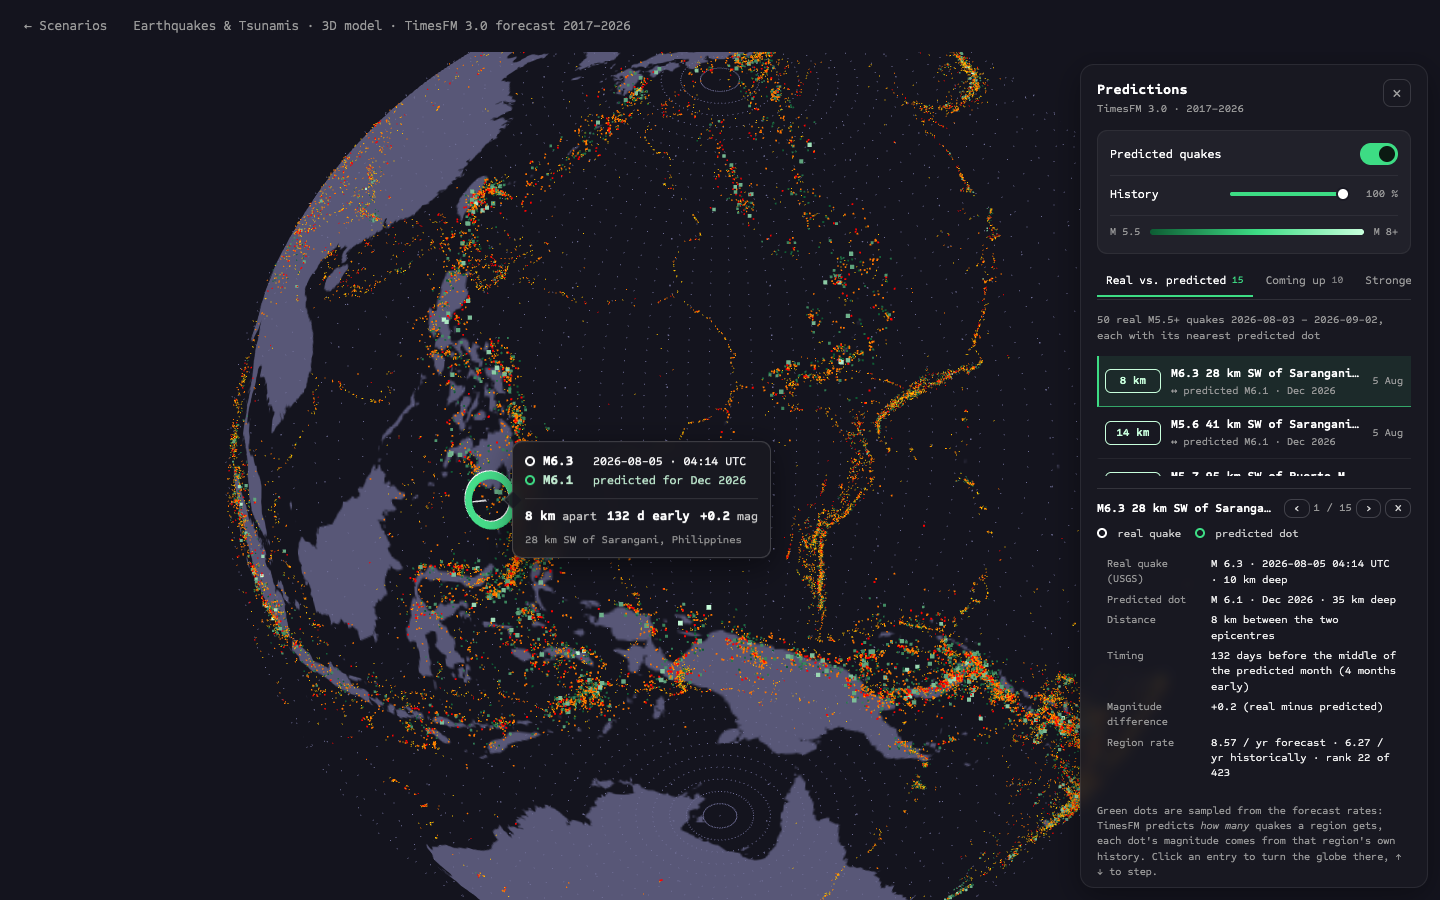
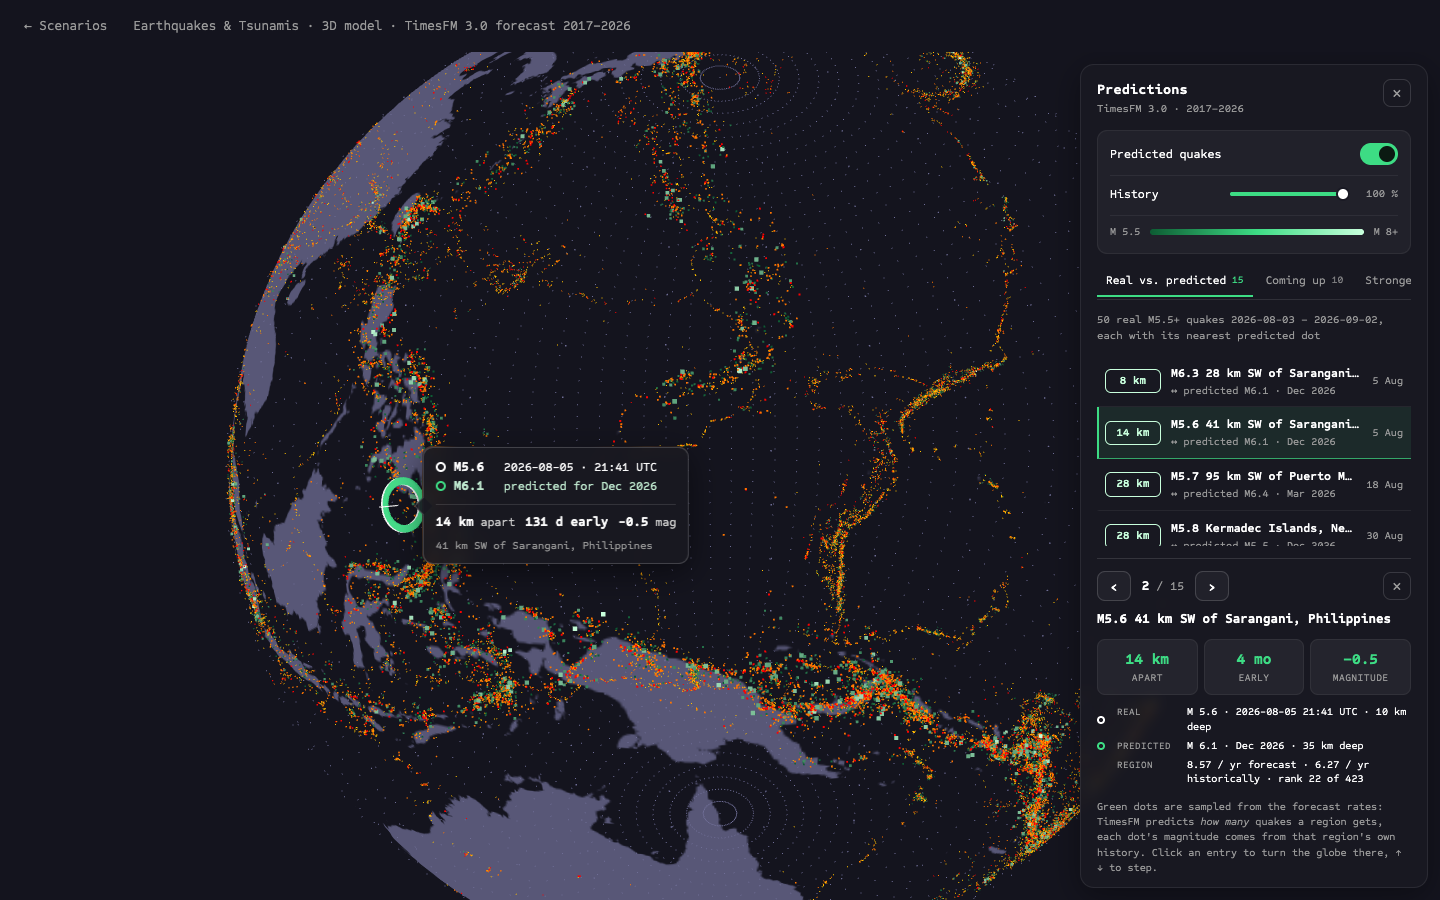
ui: globe detail card with larger stepper, stat tiles and compact fact lines

diff --git a/src/erdbeben/pages/Globe.tsx b/src/erdbeben/pages/Globe.tsx
@@ -713,41 +713,79 @@ export default function Globe() {
 
           {selectedItem && currentSection && (
             <div className="detail" aria-live="polite">
-              <div className="detailHead">
-                <span className="detailTitle">{selectedItem.place}</span>
-                <span className="stepper">
-                  <button type="button" className="ghostBtn" onClick={() => step(-1)} aria-label="Previous">
-                    ‹
-                  </button>
-                  <span>
-                    {selectedIdx + 1} / {currentSection.items.length}
-                  </span>
-                  <button type="button" className="ghostBtn" onClick={() => step(1)} aria-label="Next">
-                    ›
-                  </button>
-                  <button type="button" className="ghostBtn" onClick={clearSelection} aria-label="Clear selection">
-                    ×
-                  </button>
+              <div className="detailNav">
+                <button type="button" className="navBtn" onClick={() => step(-1)} aria-label="Previous">
+                  ‹
+                </button>
+                <span className="navPos">
+                  <b>{selectedIdx + 1}</b> / {currentSection.items.length}
                 </span>
+                <button type="button" className="navBtn" onClick={() => step(1)} aria-label="Next">
+                  ›
+                </button>
+                <span className="navSpacer" />
+                <button type="button" className="iconBtn" onClick={clearSelection} aria-label="Clear selection" title="Clear selection">
+                  ×
+                </button>
               </div>
-              {selectedItem.pair && (
-                <div className="pairLegend">
-                  <span>
-                    <span className="ring white" /> real quake
-                  </span>
-                  <span>
-                    <span className="ring green" /> predicted dot
-                  </span>
-                </div>
-              )}
-              <dl className="facts">
-                {selectedItem.facts.map((f) => (
-                  <div key={f.label}>
-                    <dt>{f.label}</dt>
-                    <dd>{f.value}</dd>
+              <div className="detailTitle">{selectedItem.place}</div>
+              {selectedItem.pair ? (
+                <>
+                  <div className="statRow">
+                    <div className="stat">
+                      <b>{Math.round(selectedItem.pair.km)} km</b>
+                      <span>apart</span>
+                    </div>
+                    <div className="stat">
+                      <b>
+                        {selectedItem.pair.sameMonth
+                          ? 'same'
+                          : Math.abs(selectedItem.pair.daysApart) >= 45
+                            ? `${Math.round(Math.abs(selectedItem.pair.daysApart) / 30)} mo`
+                            : `${Math.abs(selectedItem.pair.daysApart)} d`}
+                      </b>
+                      <span>{selectedItem.pair.sameMonth ? 'month' : selectedItem.pair.daysApart < 0 ? 'early' : 'late'}</span>
+                    </div>
+                    <div className="stat">
+                      <b>
+                        {selectedItem.pair.realMag - selectedItem.pair.predMag >= 0 ? '+' : '−'}
+                        {Math.abs(selectedItem.pair.realMag - selectedItem.pair.predMag).toFixed(1)}
+                      </b>
+                      <span>magnitude</span>
+                    </div>
                   </div>
-                ))}
-              </dl>
+                  <div className="pairLines">
+                    <div>
+                      <span className="ring white" />
+                      <span className="k">real</span>
+                      <span className="v">{selectedItem.facts[0]?.value}</span>
+                    </div>
+                    <div>
+                      <span className="ring green" />
+                      <span className="k">predicted</span>
+                      <span className="v">{selectedItem.facts[1]?.value}</span>
+                    </div>
+                    {selectedItem.facts
+                      .filter((f) => /region/i.test(f.label))
+                      .map((f) => (
+                        <div key={f.label}>
+                          <span className="ring none" />
+                          <span className="k">region</span>
+                          <span className="v">{f.value}</span>
+                        </div>
+                      ))}
+                  </div>
+                </>
+              ) : (
+                <dl className="facts">
+                  {selectedItem.facts.map((f) => (
+                    <div key={f.label}>
+                      <dt>{f.label}</dt>
+                      <dd>{f.value}</dd>
+                    </div>
+                  ))}
+                </dl>
+              )}
             </div>
           )}
 

diff --git a/src/erdbeben/styles/global.css b/src/erdbeben/styles/global.css
@@ -1724,3 +1724,136 @@ select {
   color: var(--muted);
   white-space: nowrap;
 }
+
+/* ==================== globe panel v2: detail card ==================== */
+.globePanel .detail {
+  gap: 10px;
+  padding-top: 12px;
+}
+
+.globePanel .detailNav {
+  display: flex;
+  align-items: center;
+  gap: 6px;
+}
+
+.globePanel .navBtn {
+  width: 34px;
+  height: 30px;
+  display: grid;
+  place-items: center;
+  border: 1px solid rgba(255, 255, 255, 0.16);
+  border-radius: 8px;
+  background: rgba(255, 255, 255, 0.04);
+  color: var(--text);
+  font: inherit;
+  font-size: 18px;
+  line-height: 1;
+  cursor: pointer;
+  transition: background 0.15s ease, border-color 0.15s ease;
+}
+
+.globePanel .navBtn:hover {
+  background: rgba(255, 255, 255, 0.1);
+  border-color: rgba(255, 255, 255, 0.3);
+}
+
+.globePanel .navPos {
+  min-width: 52px;
+  text-align: center;
+  color: var(--muted);
+  font-size: 12px;
+  font-variant-numeric: tabular-nums;
+}
+
+.globePanel .navPos b {
+  color: var(--text);
+  font-size: 13px;
+}
+
+.globePanel .navSpacer {
+  flex: 1;
+}
+
+.globePanel .detailTitle {
+  font-size: 13px;
+  font-weight: 700;
+  line-height: 1.35;
+  white-space: normal;
+  overflow: visible;
+}
+
+.globePanel .statRow {
+  display: grid;
+  grid-template-columns: repeat(3, minmax(0, 1fr));
+  gap: 6px;
+}
+
+.globePanel .stat {
+  display: flex;
+  flex-direction: column;
+  align-items: center;
+  gap: 1px;
+  padding: 8px 6px;
+  border-radius: 8px;
+  background: rgba(255, 255, 255, 0.05);
+  border: 1px solid rgba(255, 255, 255, 0.06);
+}
+
+.globePanel .stat b {
+  font-size: 15px;
+  font-weight: 700;
+  color: var(--forecast);
+  font-variant-numeric: tabular-nums;
+}
+
+.globePanel .stat span {
+  font-size: 10px;
+  color: var(--muted);
+  letter-spacing: 0.04em;
+  text-transform: uppercase;
+}
+
+.globePanel .pairLines {
+  display: flex;
+  flex-direction: column;
+  gap: 4px;
+}
+
+.globePanel .pairLines > div {
+  display: grid;
+  grid-template-columns: 12px 62px minmax(0, 1fr);
+  align-items: baseline;
+  gap: 8px;
+  font-size: 10.5px;
+  line-height: 1.4;
+}
+
+.globePanel .pairLines .k {
+  color: var(--muted);
+  text-transform: uppercase;
+  letter-spacing: 0.05em;
+  font-size: 9.5px;
+}
+
+.globePanel .pairLines .v {
+  color: var(--text);
+}
+
+.globePanel .pairLines .ring {
+  width: 8px;
+  height: 8px;
+  align-self: center;
+}
+
+.globePanel .pairLines .ring.none {
+  visibility: hidden;
+}
+
+.globePanel .facts dt {
+  font-size: 10px;
+}
+
+.globePanel .facts dd {
+  font-size: 10.5px;
+}
